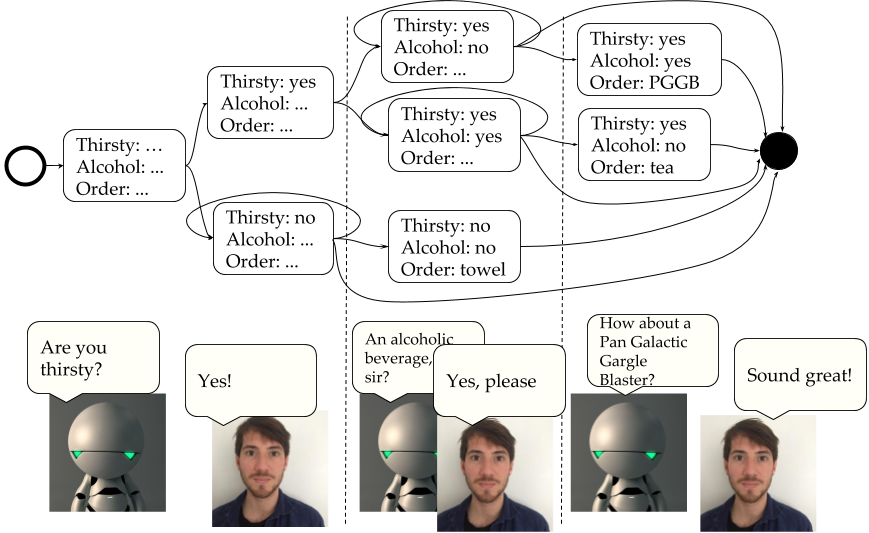
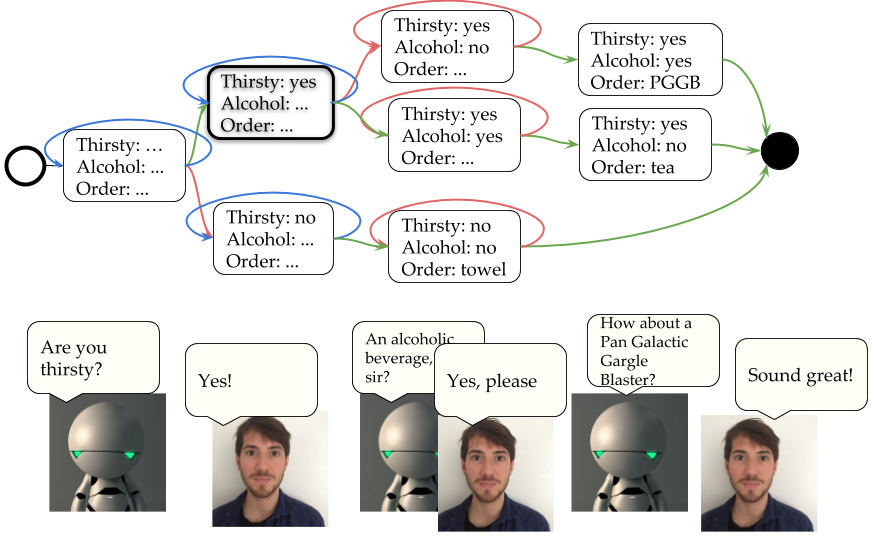
Add some posts

diff --git a/content/posts/rl-for-dialogue-management.md b/content/posts/rl-for-dialogue-management.md
@@ -1,8 +1,8 @@
 ---
 title: "How Reinforcement Learning is Applied to Dialogue Control"
 date: 2019-02-15T12:41:16+01:00
-tags: [tutorial, dialog systems, reinforcement learning, pomdp]
-draft: true
+tags: [Tutorial, Dialog Systems, Reinforcement Learning, POMDP]
+draft: false
 ---
 
 The value offering of most contemporary chatbot platforms consists of packaging state-of-art
@@ -11,13 +11,14 @@ Voice Synthesis into a comprehensive API. The API typically also includes some p
 model for dialog control such as DialogFlows' [Contexts and follow-up
 Intents](https://www.youtube.com/watch?v=-tOamKtmxdY) and Alexa's [Dialog
 model](https://developer.amazon.com/docs/custom-skills/define-the-dialog-to-collect-and-confirm-required-information.html).
-It's also up to the developer to model relevant dialog flows and craft rules to determine what the
-bot should do next. Figure 1 summarizes this in a diagram. Developers can use their experience
-and common sense or even turn to [focus
+Implementing the right dialog controller is up to the developer. Figure 1 summarizes this in a
+diagram, with the handcrafted modules in green and with a keyboard in the top right. These
+handcrafted modules Developers
+can use their experience and common sense or even turn to [focus
 groups](https://ctb.ku.edu/en/table-of-contents/assessment/assessing-community-needs-and-resources/conduct-focus-groups/main)
-and A/B tests in optimizing these parts of the bot. Although making all optimization decisions
-upfront works well in small systems, it fails to scale to applications where many decisions are
-involved such as when a *personalized* chatbot is desired. [Reinforcement
+and A/B tests in optimizing these handcrafted parts of the bot. Although making all optimization
+decisions upfront works well in small systems, it fails to scale to applications where many
+decisions are involved such as when a *personalized* chatbot is desired. [Reinforcement
 Learning](http://www0.cs.ucl.ac.uk/staff/D.Silver/web/Teaching_files/intro_RL.pdf#page=6) (RL) can
 help in such cases. In this blog post, I'll describe the formalism underlying most dialog
 management models, explain how this formalism can be generalized to support more flexible dialog
@@ -27,8 +28,8 @@ management and finally, how RL can be used to optimize dialog management using d
  <img src="/imgs/rl-for-dialog-management/dm-overview.png"
       alt="Dialog Systems Overview" />
  <figcaption>Figure 1. Overview of components in most commercially available dialog systems. The
- orange components are typically optimized using Machine Learning whereas green components are
- typically hand crafted.
+ orange components are typically optimized using Machine Learning whereas green components with a
+ keyboard in the top right are typically hand crafted.
  [<a href="https://docs.google.com/drawings/d/1onFCYv6-NcGCIUuV9GOFhEoAGBSJuVVf4sFQuj62rrc/edit?usp=sharing)">src</a>]
  </figcaption>
 </figure>
@@ -42,41 +43,68 @@ First, let's consider the following dialog for ordering a drink at Marvin the Pa
  </figcaption>
 </figure>
 
-Marvin also serves tea in case a nonalcoholic beverage is preferred and can bring users that
-aren't thirsty at the moment a towel. When the user doesn't want anything of this, they can end
-the interaction and leave Marvin to contemplate life. Finally, let's assume that users don't lie
-to Marvin about their preference for alcohol. We can formalize all of these possibilities as a
-*finite state machine* in which states are defined in terms of the available information in the
-system and transitions are by a system utterance and user response. This yields the following
-model in Figure 3, which can be hand coded by Marvin's developer.
+Marvin can serve tea in case a nonalcoholic beverage is preferred and can bring users that aren't
+thirsty at the moment a towel. When the user doesn't want any of this, they can end the
+interaction and leave Marvin to contemplate life. Finally, let's assume that users don't lie to
+Marvin about their preference for alcohol. We can formalize all of these possibilities as a
+[*finite state machine*](https://en.wikipedia.org/wiki/Finite-state_machine) (FSM). First let's
+have a look at a simple FSM for a turnstile.
+<figure style="max-width:80%;">
+ <img src="/imgs/rl-for-dialog-management/fsm-turnstile.png"
+      alt="Example dialog" />
+ <figcaption>Figure 3. Simple finite state machine for a turnstile.
+ [<a href="https://docs.google.com/drawings/d/173R4ZuTm1vomf2vha0w-UjgVVLiMXfngVrURV_wNYpo/edit?usp=sharing">src</a>]
+ </figcaption>
+</figure>
+
+The FSM describes a system in terms of the *states* the system can be in and how all possible
+*transitions* affect the system. Transitions can be labelled, labels are typically referred to as
+input symbols as something external to the system provides these.  In dialog, states are defined
+in terms of the available information in the system and transitions are formed by user inputs that
+have been processed by ASR/NLU. The developer specifies a system response for every state of the
+conversation. Adding an 'end state' for Marvin's ordering system brings us to the following FSM,
+where transitions are labelled based on user inputs being positive (green) negative (red) or
+something else (blue):
 <figure style="max-width:80%;">
  <img src="/imgs/rl-for-dialog-management/fsm-dialog.png"
       alt="Finite-state-machine for dialog" />
- <figcaption>Figure 3. Finite State Machine for Marvin's interaction.
+ <figcaption>Figure 4. Finite state machine for Marvin's dialog management module. Dashed lines indicate
+ 'error handling' for when Marvin receives an illegal input. Transitions from intermediary nodes
+ to the final node are left out of this visualization.
  [<a href="https://docs.google.com/drawings/d/12vGvqUOlm1rj5NOdkPS30cCUkhLrlNKFoh36nU4OBqc/edit?usp=sharing">src</a>]
  </figcaption>
 </figure>
 
-Now, consider that Marvin's NLU or ASR modules are imperfect and sometimes think that users
-without thirst would like a drink. Or consider that users sometimes prefer a tea when they learn
-the only alcoholic option is a Pan-Galactic Gargle Blaster. Or that users want both a drink and a
-towel. Or that users might order for the entire party aboard their spaceship. Modelling all of
-this makes the state machine much bigger and requires making many nontrivial choices. What if we
-could learn how the dialog should be structured from data?
+Now consider that users sometimes prefer a tea when they learn the only alcoholic option is a
+Pan-Galactic Gargle Blaster. Or that users want both a drink and a towel. These more complex
+scenarios require additional links and may require that the system utterances associated with some
+states are updated. What if we want the bot to respond differently for the highlighted node (bold
+lines) based on whether the system arrived following a green or blue transition? As system
+utterances are tied to dialog state, this requires splitting the node and defining utterances for
+both. How about taking into account that users will almost never want to order an alcoholic
+beverage at 9 AM and we could skip the suggestion for an alcoholic drink at such times? Or that a
+particular user is always thirsty? This requires different models for different users and at
+different times. Modelling all of this quickly becomes unfeasible, not only because of the number
+of decision to make but also because of the lack of any principled way of doing so. How about we
+see how actual users interacts with the system and use the resulting data to make the interaction
+better over time by learning what the system should say in which situation?
 
-For a learning approach to be useable, all states in the state machine must connected first: we do
-not know what kind of interactions the data will show and do not want to exclude situations
-upfront as the point of the exercise is to use what is shown from real data. Furthermore, we need
-some way to model all actions of Marvin. In this example, Marvin can ask whether the user is
-thirsty, whether an alcoholic or non-alcoholic beverage is preferred and can propose his three
-offerings: Pan-Galactic Gargle Blasters, tea and towels. Finally, in order to model possible
-errors in NLU and ASR, we can replace the `yes`/`no` options with values that express the
-confidence of the ASR/NLU models in their understanding of the user.
+The first step for *data driven* dialog control is to decouple system utterances from states and
+maintain them in lists of system utterances \\(A\\) (for 'action') and system states \\(S\\).  The
+transitions in the dialog system are no longer dictated by the system developer, but are given by
+users of the system. Some dialog state tracking (DST) algorithm[^1] can be used to determine the
+transition. Finally, some quality metric \\(R\\) for the chatbot to optimize should be defined
+(\\(R\\) for 'reward'). Such a metric can be simply a combination of dialog length and success
+rate or more sophisticated models that estimate user satisfaction can be used. The goal of the
+chatbot now becomes to select the utterance \\(a \in A\\) given the current \\(s \in S\\) to
+maximize \\(R\\) for the entire conversation. This formalism is commonly referred to as the
+formalism of Markov Decision Processes (MDPs) and once the problem is in this shape, RL algorithms
+can be applied to optimize the dialogue controller using available data.
 
-Introduce MDP process and highlight why it's not markovian 
+In practice, a generalization of MDPs in which part of the true state may not be observable are
+used in order to deal with ASR/NLU/DST errors and to be able to incorporate estimates of user
+intention in the dialog state. This generalization is referred to as a Partially Observable MDP
+(POMDP) and adds the notion of observations to the MDP. I will how to deal with such POMDPs in
+another blog post.
 
-Introduce POMDP.
-
-Link to other posts that deal with policy optimization.
-
-
+[^1]: Check out the outcomes of the Dialog State Tracking Challenges: DSTC [2 \& 3](http://camdial.org/~mh521/dstc/), [4](http://www.colips.org/workshop/dstc4/),  [5](http://workshop.colips.org/dstc5/), [6](http://workshop.colips.org/dstc6/),  [7](http://workshop.colips.org/dstc7/)

diff --git a/content/posts/completed-research-methods-in-iks.md b/content/posts/completed-research-methods-in-iks.md
@@ -1,0 +1,17 @@
+---
+title: "Research Methods in Information and Knowledge Systems Course"
+date: 2018-12-30T13:18:10+01:00
+tags: [Courses, ]
+draft: false
+---
+
+I completed the [SIKS](https://www.siks.nl) course 'Research Methods and Methodology in IKS',
+spanning a wide range of topics such as research methods, Design Research, many issues involved
+with evaluation in ML and how the field of IR has a strong history of rigourous evaluation (much
+to learn there for ML/RL researchers!).
+
+To top it all off, the course was held in the lovely location (see picture) and with lots of great
+minds from all over The Netherlands. Great course for first-year PhD in information systems
+research.
+
+![Landgoed Huize Bergen](imgs/rm-in-iks/landgoed_huize_bergen.jpg)

diff --git a/content/posts/completed-scientific-writing-course.md b/content/posts/completed-scientific-writing-course.md
@@ -1,0 +1,14 @@
+---
+title: "Scientific Writing Course"
+date: 2018-12-18T13:10:34+01:00
+tags: [Courses, Reinforcement Learning, Personalization]
+draft: false
+---
+
+I just completed the course 'Writing a Scientific Article' at the [VU Language
+Centre](https://www.taalcentrum-vu.nl/en/training/academic-english/writing-a-scientific-article).
+Although I joined the course thinking I knew a fair share of writing in English, I learned a great
+deal about *scientific* writing and picked up some neat tricks to improve writing.
+As a bonus, I got some great feedback on an survey paper on Reinforcement Learning for
+personalization I'm working on with some colleagues in [our group](https://www.cs.vu.nl/ci/)
+

diff --git a/content/posts/prediction-go-mcmc.md b/content/posts/prediction-go-mcmc.md
@@ -1,6 +1,6 @@
 ---
 title: "The Book that Predicted AlphaGo"
-date: 2019-02-17T21:54:28+01:00
+date: 2018-08-01T21:54:28+01:00
 tags: [Reinforcement Learning]
 ---
 
